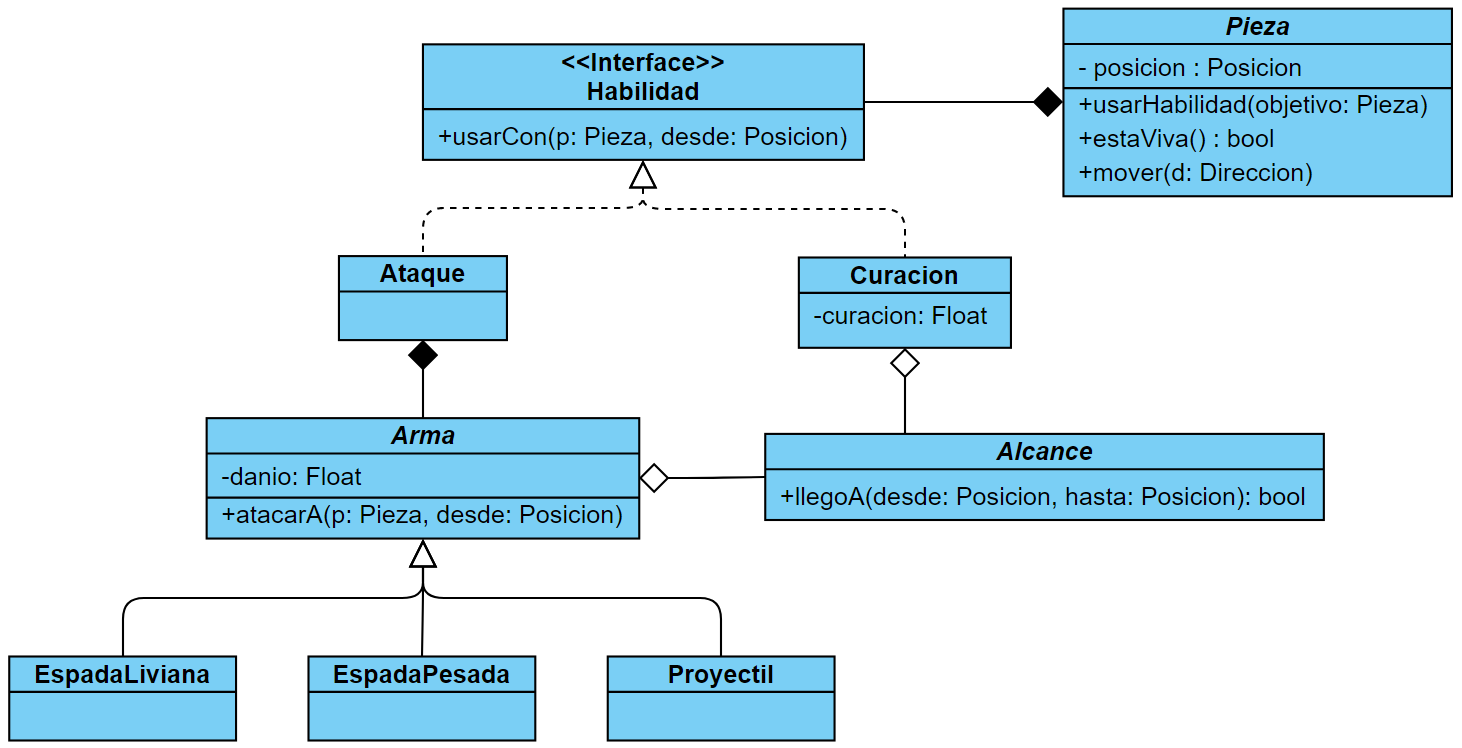
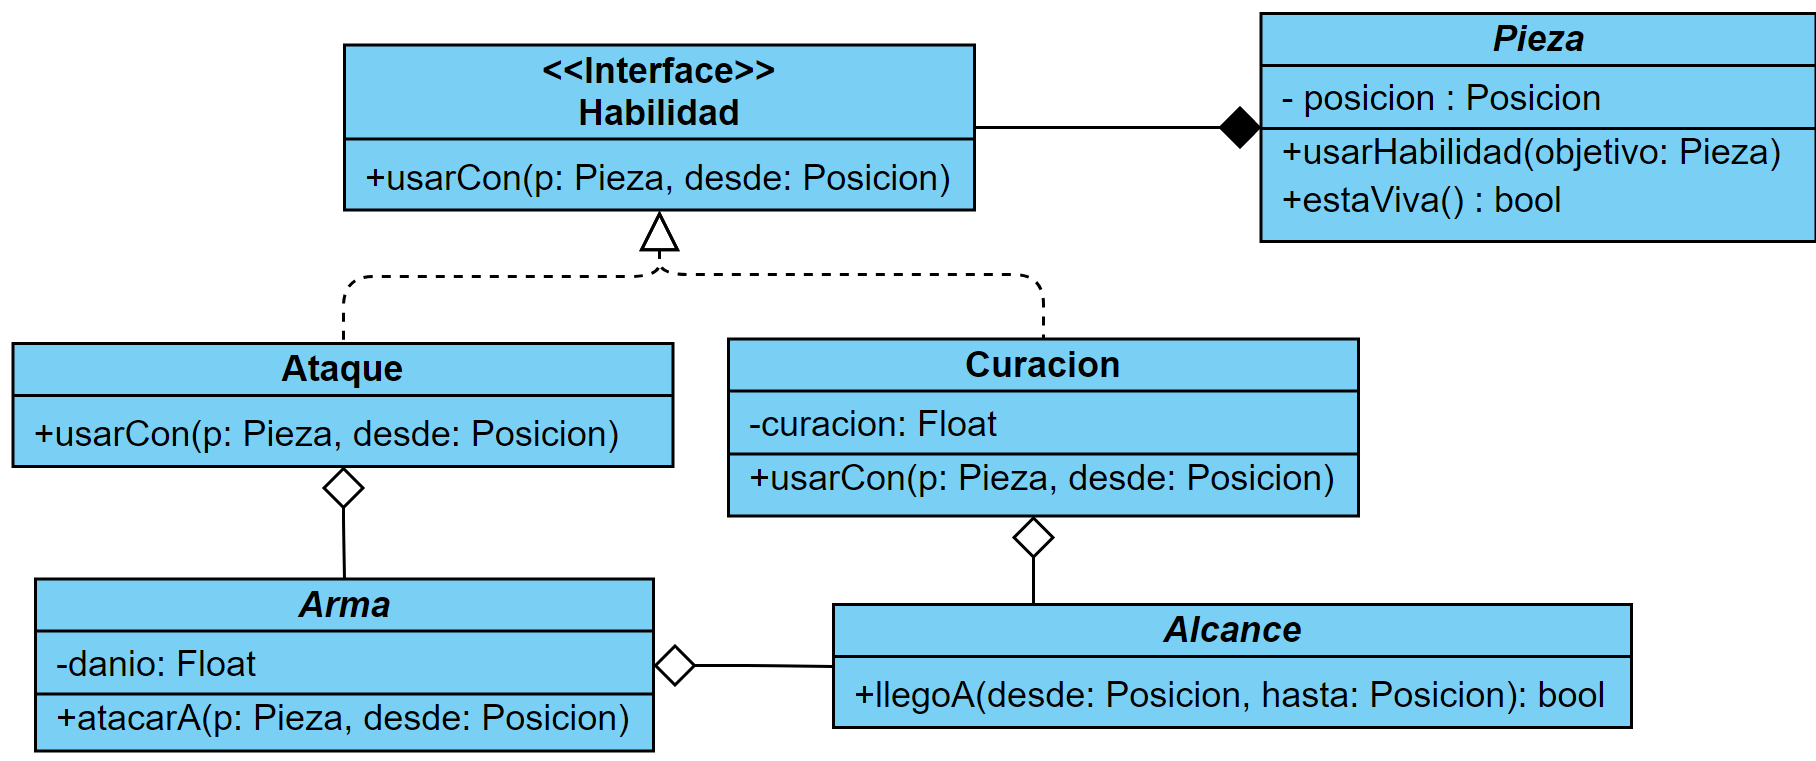
Se cambian los Diagramas de Clase

diff --git a/test/fiuba/algo3/algochess/PiezaTest.java b/test/fiuba/algo3/algochess/PiezaTest.java
@@ -8,6 +8,7 @@ import fiuba.algo3.algochess.pieza.habilidad.HabilidadFueraDeAlcanceException;
 import fiuba.algo3.algochess.pieza.movimiento.*;
 import fiuba.algo3.algochess.tablero.FueraDelTableroException;
 import fiuba.algo3.algochess.tablero.casillero.CasilleroException;
+import fiuba.algo3.algochess.tablero.casillero.ColocarEnCasilleroEnemigoException;
 import fiuba.algo3.algochess.tablero.casillero.ColocarEnCasilleroOcupadoException;
 import org.junit.Test;
 
@@ -203,9 +204,9 @@ public class PiezaTest {
     public void test01PiezaNoPuedeMoverseAUnCasilleroOcupado() throws CasilleroException, FueraDelTableroException {
         AlgoChess chess = new AlgoChess();
         Pieza pieza1 = new SoldadoDeInfanteria();
-        chess.colocar(pieza1, new Posicion(0, 0));
+        chess.posicionar(pieza1, new Posicion(0, 0));
         Pieza pieza2 = new SoldadoDeInfanteria();
-        chess.colocar(pieza2, new Posicion(0, 1));
+        chess.posicionar(pieza2, new Posicion(0, 1));
 
         assertThrows(ColocarEnCasilleroOcupadoException.class,
                 ()->{
@@ -218,7 +219,7 @@ public class PiezaTest {
         AlgoChess chess = new AlgoChess();
         Pieza pieza = new SoldadoDeInfanteria();
 
-        chess.colocar(pieza, new Posicion(0, 0));
+        chess.posicionar(pieza, new Posicion(0, 0));
 
         Posicion destino = chess.mover(pieza, new DireccionAbajo());
         assertEquals(new Posicion(0, 1), destino);
@@ -436,12 +437,12 @@ public class PiezaTest {
     }
 
     @Test
-    public void testPiezaNoSePuedeMoverAUnaDireccionMayorAUno() throws FueraDelTableroException, ColocarEnCasilleroOcupadoException {
+    public void testPiezaNoSePuedeMoverAUnaDireccionMayorAUno() throws FueraDelTableroException, ColocarEnCasilleroOcupadoException, ColocarEnCasilleroEnemigoException {
         // Arrange
         AlgoChess chess = new AlgoChess();
         Pieza pieza = new SoldadoDeInfanteria();
         Posicion posicion = new Posicion(0, 0);
-        chess.colocar(pieza, posicion);
+        chess.posicionar(pieza, posicion);
         Direccion direccion = new Direccion(2, 0);
         // Act - Assert
         assertThrows(MovimientoFueraDeAlcanceException.class,

diff --git a/src/fiuba/algo3/algochess/tablero/Tablero.java b/src/fiuba/algo3/algochess/tablero/Tablero.java
@@ -1,6 +1,7 @@
 package fiuba.algo3.algochess.tablero;
 
 import fiuba.algo3.algochess.Posicion;
+import fiuba.algo3.algochess.Rango;
 import fiuba.algo3.algochess.pieza.Pieza;
 import fiuba.algo3.algochess.tablero.casillero.*;
 
@@ -11,7 +12,7 @@ public class Tablero {
     private Map<Posicion, Casillero> casilleros;
     private int cantFilas;
     private int cantColumnas;
-
+    private Rango rango;
     public Tablero() {
         this(20, 20);
     }
@@ -19,6 +20,7 @@ public class Tablero {
     public Tablero(int cantFilas, int cantColumnas) {
         this.cantFilas = cantFilas;
         this.cantColumnas = cantColumnas;
+        this.rango = new Rango(0, 0, cantFilas, cantColumnas);
         this.casilleros = new HashMap<>();
         inicializarCasilleros();
     }
@@ -28,6 +30,7 @@ public class Tablero {
             iniciarFila(i);
         }
     }
+
     private void iniciarFila(int fila) {
         for (int j = 0; j < cantColumnas; j++){
             Casillero casillero = new Casillero();
@@ -38,12 +41,8 @@ public class Tablero {
         }
     }
 
-    private boolean estaDentro(Posicion posicion) {
-        return posicion.estaDentroDe(0, 0, cantFilas, cantColumnas);
-    }
-
     private Casillero getCasillero(Posicion posicion) throws FueraDelTableroException {
-        if (!estaDentro(posicion)) throw new FueraDelTableroException();
+        if (!posicion.estaDentroDe(rango)) throw new FueraDelTableroException();
         return casilleros.get(posicion);
     }
 

diff --git a/src/fiuba/algo3/algochess/pieza/Pieza.java b/src/fiuba/algo3/algochess/pieza/Pieza.java
@@ -3,6 +3,7 @@ package fiuba.algo3.algochess.pieza;
 import fiuba.algo3.algochess.Posicion;
 import fiuba.algo3.algochess.Aliable;
 import fiuba.algo3.algochess.pieza.alcance.Alcance;
+import fiuba.algo3.algochess.pieza.alcance.AlcanceInmediato;
 import fiuba.algo3.algochess.pieza.habilidad.*;
 import fiuba.algo3.algochess.pieza.movimiento.Direccion;
 import fiuba.algo3.algochess.pieza.movimiento.Movimiento;
@@ -21,8 +22,12 @@ public abstract class Pieza implements Aliable {
     protected Pieza(float vidaInicial) {
         this.vidaInicial = vidaInicial;
         this.vida = vidaInicial;
-        this.movimiento = new Movimiento();
         this.alianza = new PiezaAliada();
+        this.setMovimiento(new Movimiento(new AlcanceInmediato()));
+    }
+
+    protected void setMovimiento(Movimiento movimiento) {
+        this.movimiento = movimiento;
     }
 
     protected void setHabilidad(Habilidad habilidad) {
@@ -77,7 +82,7 @@ public abstract class Pieza implements Aliable {
     }
 
     public Posicion mover(Direccion direccion) throws MovimientoFueraDeAlcanceException {
-        this.posicion = movimiento.mover(posicion, direccion);
+        posicion = movimiento.mover(posicion, direccion);
         return posicion;
     }
 

diff --git a/src/fiuba/algo3/algochess/AlgoChess.java b/src/fiuba/algo3/algochess/AlgoChess.java
@@ -7,6 +7,7 @@ import fiuba.algo3.algochess.pieza.movimiento.Direccion;
 import fiuba.algo3.algochess.pieza.Pieza;
 import fiuba.algo3.algochess.tablero.FueraDelTableroException;
 import fiuba.algo3.algochess.tablero.Tablero;
+import fiuba.algo3.algochess.tablero.casillero.ColocarEnCasilleroEnemigoException;
 import fiuba.algo3.algochess.tablero.casillero.ColocarEnCasilleroOcupadoException;
 
 import java.util.ArrayList;
@@ -22,8 +23,8 @@ public class AlgoChess {
         jugadores = new Jugador[2];
     }
 
-    public void colocar(Pieza pieza, Posicion posicion) throws FueraDelTableroException, ColocarEnCasilleroOcupadoException {
-        tablero.ocupar(pieza, posicion);
+    public void posicionar(Pieza pieza, Posicion posicion) throws FueraDelTableroException, ColocarEnCasilleroOcupadoException, ColocarEnCasilleroEnemigoException {
+        tablero.posicionar(pieza, posicion);
     }
 
     public Posicion mover(Pieza pieza, Direccion direccion) throws CasilleroException, FueraDelTableroException, MovimientoFueraDeAlcanceException {

diff --git a/src/fiuba/algo3/algochess/Rango.java b/src/fiuba/algo3/algochess/Rango.java
@@ -1,0 +1,23 @@
+package fiuba.algo3.algochess;
+
+public class Rango {
+    private int minimoX;
+    private int minimoY;
+    private int maximoX;
+    private int maximoY;
+    public Rango(int minimoX, int minimoY, int maximoX, int maximoY) {
+        this.minimoX = minimoX;
+        this.minimoY = minimoY;
+        this.maximoX = maximoX;
+        this.maximoY = maximoY;
+    }
+
+    public boolean estaDentro(int x, int y) {
+        return dentroDeRango(x, minimoX, maximoX) && dentroDeRango(y, minimoY, maximoY);
+    }
+
+
+    private boolean dentroDeRango(int valor, int valorMinimo, int valorMaximo) {
+        return (valor >= valorMinimo) && (valor < valorMaximo);
+    }
+}

diff --git a/src/fiuba/algo3/algochess/pieza/Catapulta.java b/src/fiuba/algo3/algochess/pieza/Catapulta.java
@@ -1,7 +1,9 @@
 package fiuba.algo3.algochess.pieza;
 
+import fiuba.algo3.algochess.pieza.alcance.AlcanceNulo;
 import fiuba.algo3.algochess.pieza.habilidad.Ataque;
 import fiuba.algo3.algochess.pieza.habilidad.Proyectil;
+import fiuba.algo3.algochess.pieza.movimiento.Movimiento;
 
 public class Catapulta extends Pieza {
 
@@ -9,6 +11,7 @@ public class Catapulta extends Pieza {
         super(50);
         this.setCoste(5);
         this.setHabilidad(new Ataque(new Proyectil()));
+        this.setMovimiento(new Movimiento(new AlcanceNulo()));
     }
 
 }

diff --git a/src/fiuba/algo3/algochess/pieza/movimiento/Movimiento.java b/src/fiuba/algo3/algochess/pieza/movimiento/Movimiento.java
@@ -2,13 +2,12 @@ package fiuba.algo3.algochess.pieza.movimiento;
 
 import fiuba.algo3.algochess.Posicion;
 import fiuba.algo3.algochess.pieza.alcance.Alcance;
-import fiuba.algo3.algochess.pieza.alcance.AlcanceInmediato;
 
 public class Movimiento {
     private Alcance alcance;
 
-    public Movimiento() {
-        alcance = new AlcanceInmediato();
+    public Movimiento(Alcance alcance) {
+        this.alcance = alcance;
     }
 
     public Posicion mover(Posicion desde, Direccion direccion) throws MovimientoFueraDeAlcanceException {

diff --git a/src/fiuba/algo3/algochess/Posicion.java b/src/fiuba/algo3/algochess/Posicion.java
@@ -12,12 +12,8 @@ public class Posicion {
         this.y = y;
     }
 
-    public boolean estaDentroDe(int minimoX, int minimoY, int maximoX, int maximoY) {
-        return dentroDeRango(x, minimoX, maximoX) && dentroDeRango(y, minimoY, maximoY);
-    }
-
-    private boolean dentroDeRango(int valor, int valorMinimo, int valorMaximo) {
-        return (valor >= valorMinimo) && (valor < valorMaximo);
+    public boolean estaDentroDe(Rango rango) {
+        return rango.estaDentro(x, y);
     }
 
     private int deltaX(int x){

diff --git a/src/fiuba/algo3/algochess/pieza/alcance/AlcanceNulo.java b/src/fiuba/algo3/algochess/pieza/alcance/AlcanceNulo.java
@@ -1,0 +1,13 @@
+package fiuba.algo3.algochess.pieza.alcance;
+
+public class AlcanceNulo extends Alcance {
+    @Override
+    final protected boolean llegoDistanciaMinima(int distancia) {
+        return false;
+    }
+
+    @Override
+    final protected boolean llegoDistanciaMaxima(int distancia) {
+        return false;
+    }
+}

diff --git a/src/fiuba/algo3/algochess/pieza/alcance/AlcanceLejano.java b/src/fiuba/algo3/algochess/pieza/alcance/AlcanceLejano.java
@@ -6,7 +6,7 @@ public class AlcanceLejano extends Alcance {
      }
 
     @Override
-    public boolean llegoDistanciaMaxima(int distancia) {
+    final protected boolean llegoDistanciaMaxima(int distancia) {
         return true;
     }
 }
